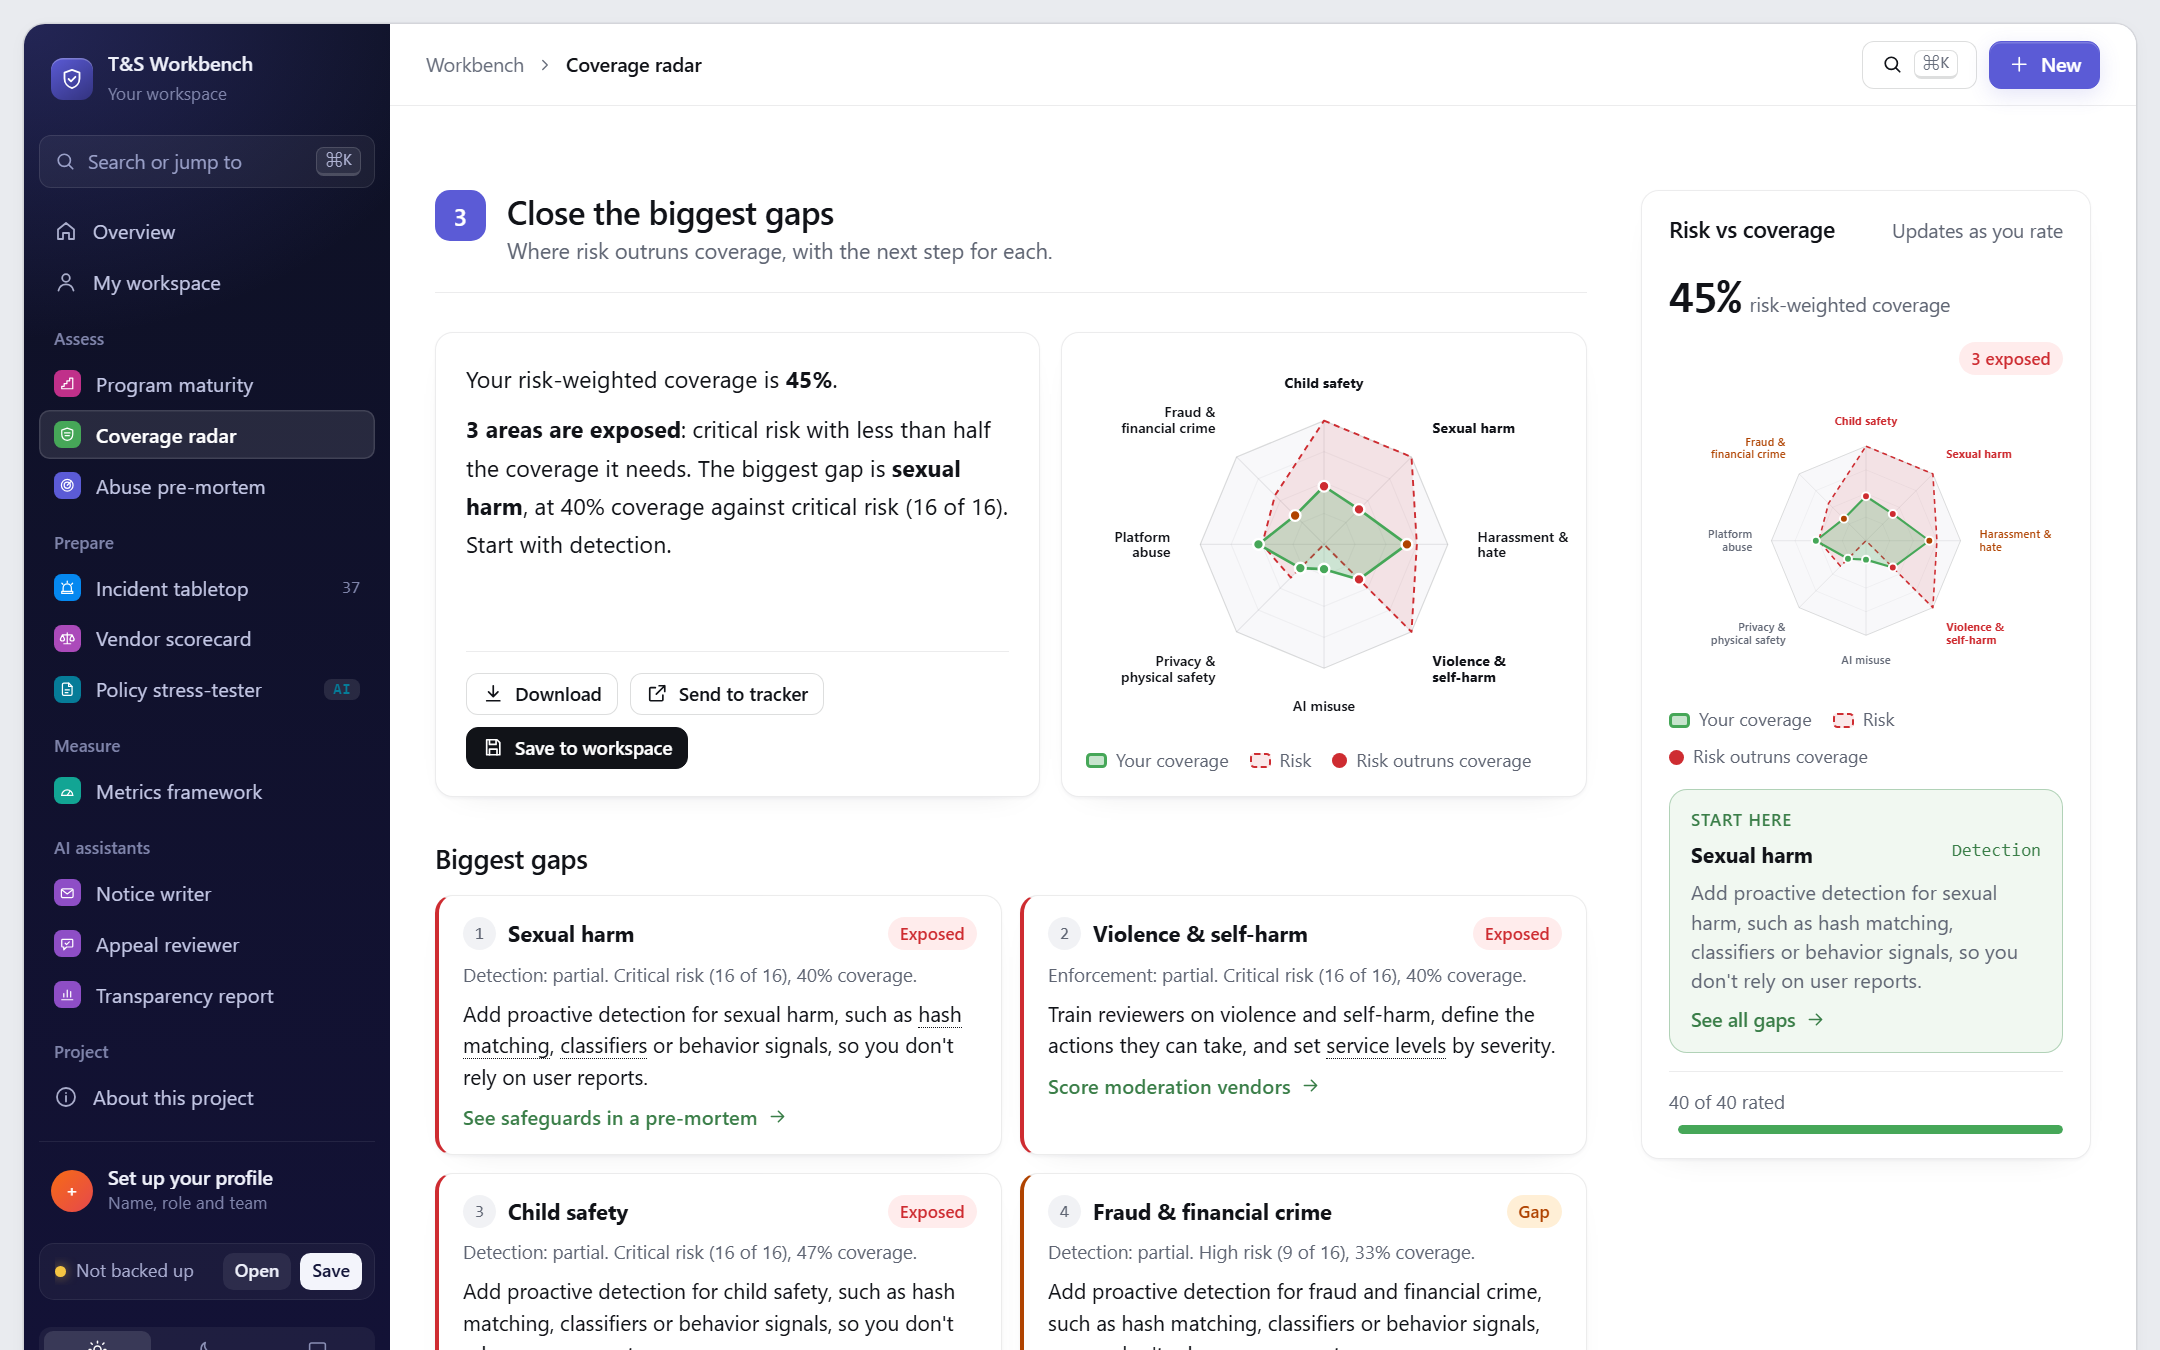
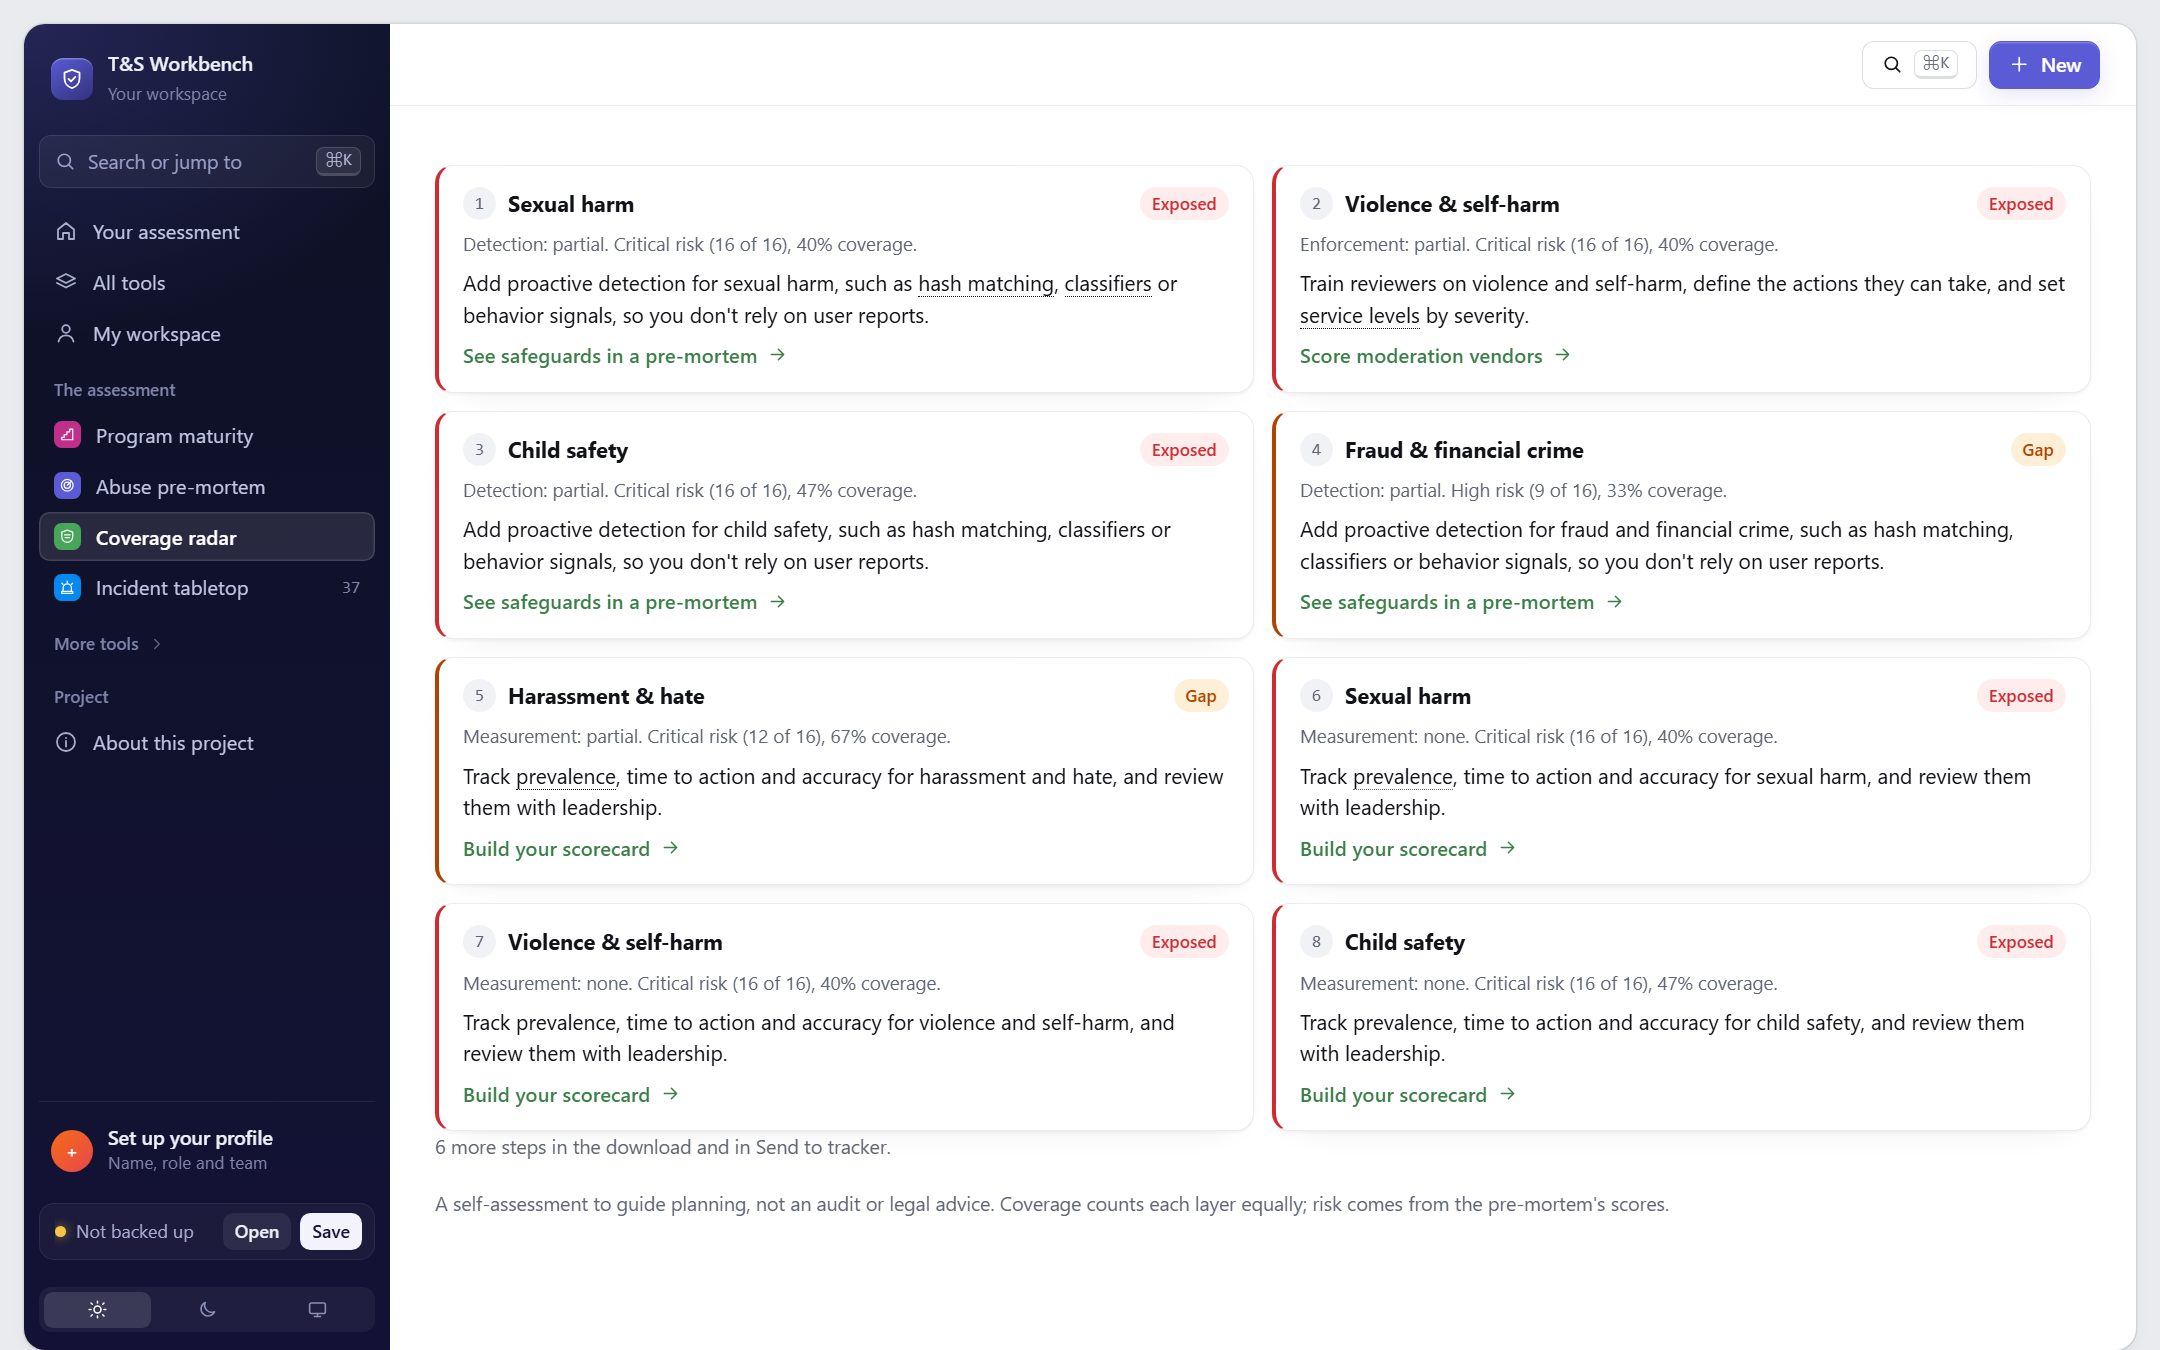
Fresh screenshots and copy for the guided assessment

diff --git a/README.md b/README.md
@@ -14,8 +14,8 @@ Most programs can say what harms they worry about, and separately what defenses 
 
 ## How it works
 
-1. **Choose the risk.** All your products combined (the worst risk in each area), one product, or an example.
-2. **Rate your defenses.** A compact grid: each harm area against five layers, rated none, partial, solid or strong.
+1. **Choose the risk.** All your products combined (the worst risk in each area), one product, or an example. Harm areas that can't happen on your platform can be left out, and that's saved in your company profile.
+2. **Rate your defenses.** One question at a time: for each kind of harm, five plain questions about policy, detection, enforcement, appeals and measurement. Your radar fills in as you answer, with a result after each harm area. Or answer everything in one table.
 3. **Close the gaps.** Exposed and under-covered areas, ranked, with the next step and the tool that helps.
 
 Send the gaps to Jira, Asana or Linear as a CSV, or open each as a pre-filled Jira, Linear or GitHub issue.
@@ -39,6 +39,8 @@ The tool's knowledge, published as open content you can read, reuse and adapt.
 - Regulator conversations about how you manage systemic risk
 
 ## More screenshots
+
+![coverage-question](assets/coverage-question.png)
 
 ![coverage-gaps](assets/coverage-gaps.png)
 
